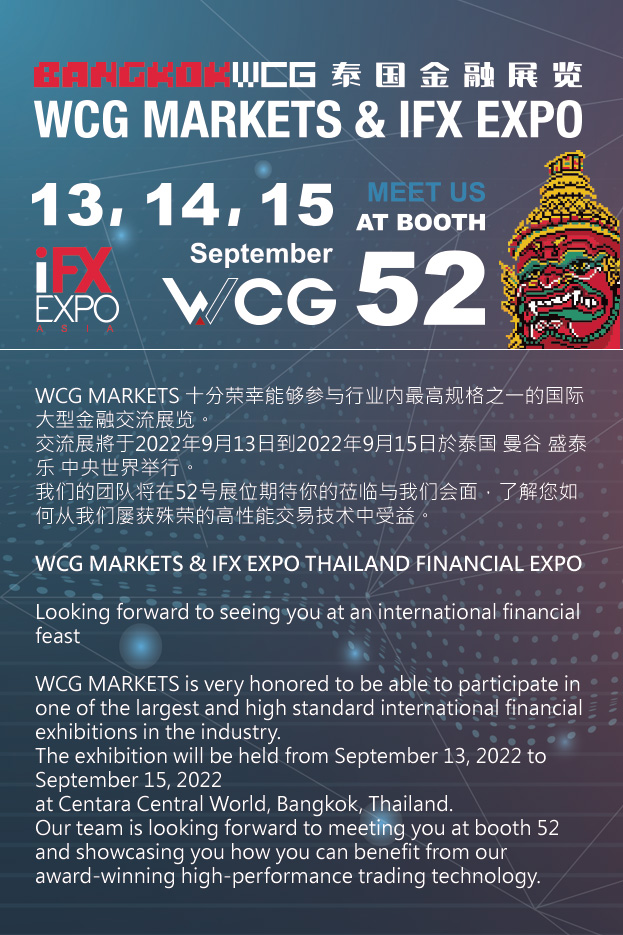
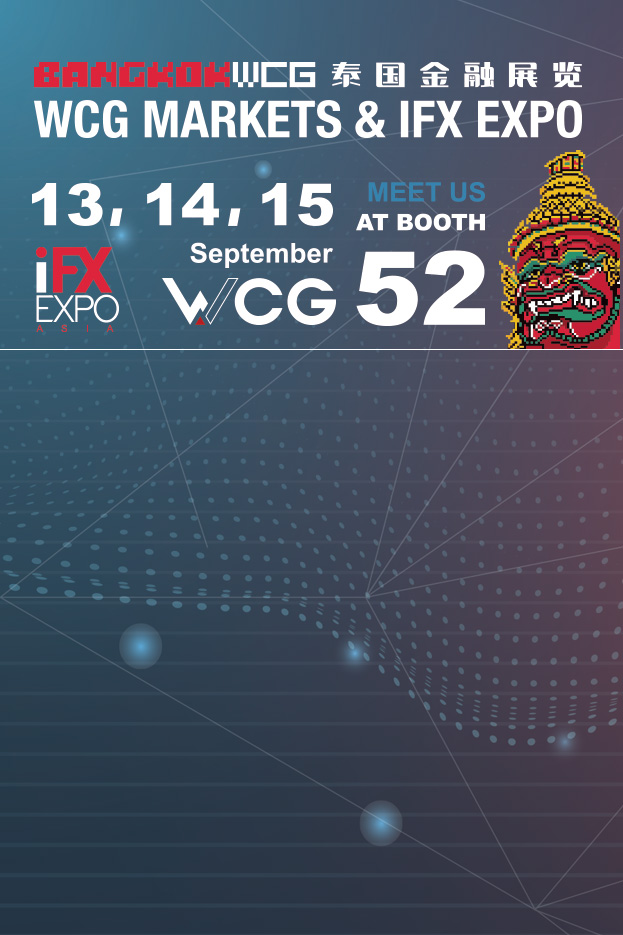
style(wcgifx): modify styling

diff --git a/src/components/Banner/WCGIFX.tsx b/src/components/Banner/WCGIFX.tsx
@@ -1,4 +1,4 @@
-import { Flex } from '@chakra-ui/react';
+import { Box, Flex, Stack } from '@chakra-ui/react';
 import React from 'react';
 
 const WCGIFX: React.FC<{}> = () => {
@@ -9,14 +9,60 @@ const WCGIFX: React.FC<{}> = () => {
         base: '../assets/images/activity_WCGIFX_banner_M.jpg',
         md: '../assets/images/activity_WCGIFX_banner.jpg'
       }}
-      bgPosition={{ base: 'top center', md: 'top right' }}
+      bgPosition={{ base: 'top center', md: 'top left' }}
       bgSize="cover"
       _hover={{
         cursor: 'pointer'
       }}
       justify="center"
-      align="flex-end"
-    ></Flex>
+    >
+      <Flex
+        flexDir="column"
+        display={{ base: 'block', md: 'none' }}
+        color="white"
+        fontSize="9px"
+        pt="250px"
+        width="85vw"
+      >
+        <Stack>
+          <Box>
+            WCG MARKETS
+            十分荣幸能够参与行业内最高规格之一的国际大型金融交流展览。
+          </Box>
+          <Box>
+            交流展將于2022年9月13日到2022年9月15日於泰国 曼谷 盛泰乐
+            中央世界举行。
+          </Box>
+
+          <Box>
+            我们的团队将在52号展位期待你的莅临与我们会面，了解您如何从我们屡获殊荣的高性能交易技术中受益。
+          </Box>
+
+          <Box>WCG MARKETS & IFX EXPO THAILAND FINANCIAL EXPO</Box>
+
+          <Box>
+            Looking forward to seeing you at an international financial feast
+          </Box>
+
+          <Box>
+            WCG MARKETS is very honored to be able to participate in one of the
+            largest and high standard international financial exhibitions in the
+            industry.
+          </Box>
+
+          <Box>
+            The exhibition will be held from September 13, 2022 to September 15,
+            2022 at Centara Central World, Bangkok, Thailand.
+          </Box>
+
+          <Box>
+            Our team is looking forward to meeting you at booth 52 and
+            showcasing you how you can benefit from our award-winning
+            high-performance trading technology.
+          </Box>
+        </Stack>
+      </Flex>
+    </Flex>
   );
 };
 

diff --git a/src/components/PopUp/WCGIFX.tsx b/src/components/PopUp/WCGIFX.tsx
@@ -1,16 +1,12 @@
-import { Box, Image } from '@chakra-ui/react';
+import { Image } from '@chakra-ui/react';
 import PopUp from './PopUp';
 
 const WCGIFX: React.FC<{}> = () => {
-  return <PopUp title="Notice" content={<WCGIFXContent />} />;
+  return <PopUp title="Notice" content={<WCGIFXContent />} useBorder={false} />;
 };
 
 const WCGIFXContent: React.FC<{}> = () => {
-  return (
-    <Box>
-      <Image src={`../assets/images/activity_WCGIFX.png`} alt="notice" />
-    </Box>
-  );
+  return <Image src={`../assets/images/activity_WCGIFX.jpg`} alt="notice" />;
 };
 
 export default WCGIFX;

diff --git a/src/components/Carousel/ProgressBar.tsx b/src/components/Carousel/ProgressBar.tsx
@@ -14,7 +14,7 @@ const ProgressBar: React.FC<ProgressBarProps> = ({
 
   const browserWidth = window?.document.body?.clientWidth;
   if (browserWidth) {
-    const newWidth = (browserWidth - 100) / amount;
+    const newWidth = (browserWidth - 150) / amount;
 
     if (newWidth < mobileBarWidth) {
       mobileBarWidth = newWidth;

diff --git a/src/components/Banner/WCGDC.tsx b/src/components/Banner/WCGDC.tsx
@@ -14,8 +14,6 @@ const WCGDC: React.FC<{}> = () => {
       _hover={{
         cursor: 'pointer'
       }}
-      justify="center"
-      align="flex-end"
     ></Flex>
   );
 };
